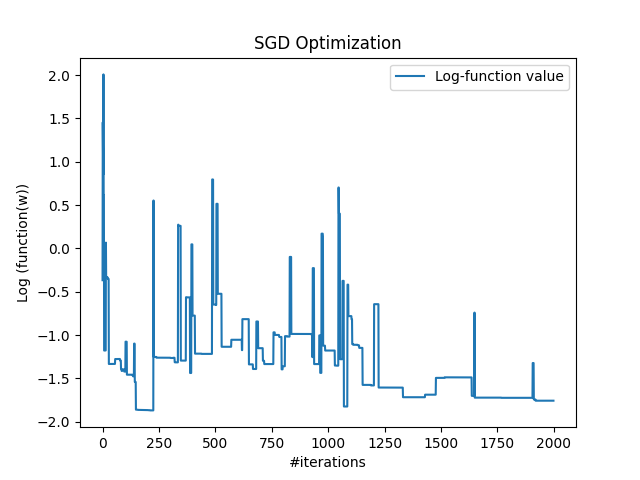
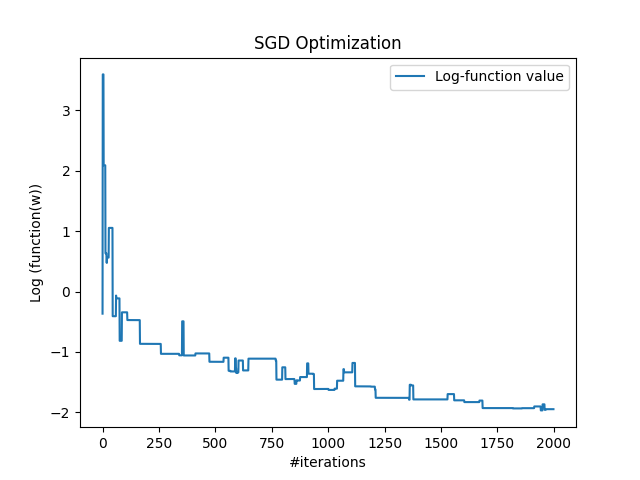
safety

diff --git a/optimization2/hw3/hw3.py b/optimization2/hw3/hw3.py
@@ -34,20 +34,16 @@ y = np.concatenate((y_1, y_2), axis=0)
 lr = 1e-5
 
 N = 4000
-batch_size = 1
 
 
-def gradient(weights:np.ndarray[float], batch_size:int=batch_size) -> np.ndarray[float]:
+def gradient(weights:np.ndarray[float], batch_size:int=1) -> np.ndarray[float]:
     indices = np.random.choice(np.arange(0, 4000), size=batch_size, replace=True)
     grad = np.zeros_like(weights)
     for index in indices:
         x_multiplied_y = (-y[index]) * X[index]
         denominator = 1 + np.exp(-np.dot(weights, X[index]) * y[index])
         grad += (1 / batch_size) * x_multiplied_y * (1 - (1 / denominator))
-    return grad 
-
-def log_function(weights:np.ndarray[float]) -> float:
-    return np.log(function(weights))    
+    return grad   
 
 def classify(weights:np.ndarray[float]) -> float:
     test_data = pd.read_csv(test_csv)
@@ -75,12 +71,20 @@ def classify(weights:np.ndarray[float]) -> float:
             summation += 1
     return summation / 500
 
+def log_function(weights:np.ndarray[float]) -> float:
+    return np.log(function(weights))  
 
 def function(weights:np.ndarray[float]) -> float:
     #return (1 / N) * np.sum(np.log(1 + np.exp(-y[:N] * np.dot(X[:N], weights))))
     return (1 / N) * np.sum(np.log(1 + np.exp(-y[i] * np.dot(weights, X[i]))) for i in range(N))
 
-def sgd(save_fig:bool=False, nbr_iterations:int = 2000) -> None:
+def learning_rate(kind, t) -> float:
+    if kind == 'a':
+        return 1e-5
+    else:
+        return 1e-4 * np.sqrt(1/(1+t))
+
+def sgd(lr:str, save_fig:bool=False, nbr_iterations:int = 2000, batch_size=1) -> None:
     weights = np.zeros(X.shape[1])
     function_list = []
     iteration_list = []
@@ -88,17 +92,26 @@ def sgd(save_fig:bool=False, nbr_iterations:int = 2000) -> None:
     for i in range(nbr_iterations):
         iteration_list.append(i)
         function_list.append(log_function(weights))
-        weights -= lr * gradient(weights)
+        weights -= learning_rate(kind=lr, t=i) * gradient(weights, batch_size=batch_size)
+    
     if save_fig:
         plt.plot(iteration_list, function_list, label='Log-function value')
         plt.xlabel('#iterations')
         plt.ylabel('Log (function(w))')
         plt.title('SGD Optimization')
         plt.legend()
-        plt.savefig('sgd_optimization_plot1.png')
+        plt.savefig('sgd_optimization_plot2.png')
         plt.show()
     print(function_list[-1])
     return weights
 
-w = sgd(save_fig=True, nbr_iterations=2000)
+# 1a
+w = sgd(lr='a', save_fig=False, nbr_iterations=2000) 
+
+# 2a
+# w = sgd(lr='b', save_fig=False, nbr_iterations=2000) 
+
+# 3a
+# w = sgd(lr='b', save_fig=True, nbr_iterations=2000, batch_size=4000) 
+
 print(classify(w))
